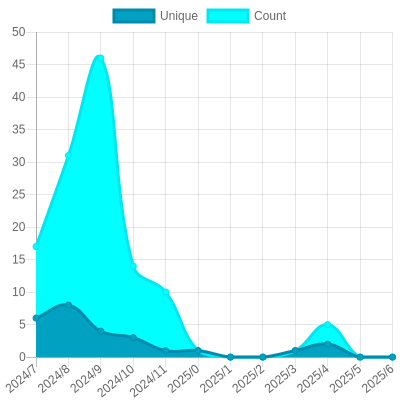
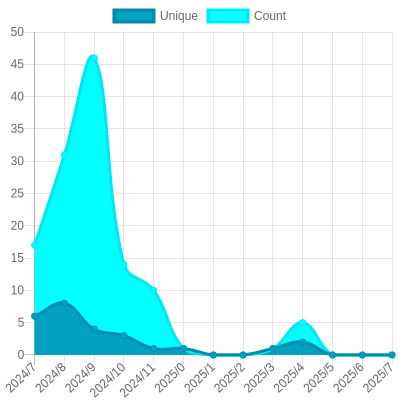
Update views

diff --git a/README.md b/README.md
@@ -26,7 +26,7 @@ The project created and maintained by [gayanvoice](https://github.com/gayanvoice
 			</a>
 		</td>
 		<td>
-			2024/7/30 12:20 AM UTC
+			2024/7/31 12:16 AM UTC
 		</td>
 		<td>
 			66
@@ -37,7 +37,7 @@ The project created and maintained by [gayanvoice](https://github.com/gayanvoice
 	</tr>
 </table>
 
-<small><i>Last updated on 2024/8/1 6:06 PM UTC</i></small>
+<small><i>Last updated on 2024/8/2 12:20 AM UTC</i></small>
 
 ## ✂Copy and 📋 Paste
 ### Total Views Badge

diff --git a/readme/549556192/year.md b/readme/549556192/year.md
@@ -20,6 +20,17 @@
 	</tr>
 	<tr>
 		<td>
+			<code>2024/8/1</code>
+		</td>
+		<td>
+			<code>0</code>
+		</td>
+		<td>
+			<code>0</code>
+		</td>
+	</tr>
+	<tr>
+		<td>
 			<code>2024/7/1</code>
 		</td>
 		<td>
@@ -153,7 +164,7 @@
 </table>
 
 </details>
-<small><i>Last updated on 2024/8/1 6:05 PM UTC</i></small>
+<small><i>Last updated on 2024/8/2 12:20 AM UTC</i></small>
 
 ## ✂Copy and 📋 Paste
 ### SVG Badge
